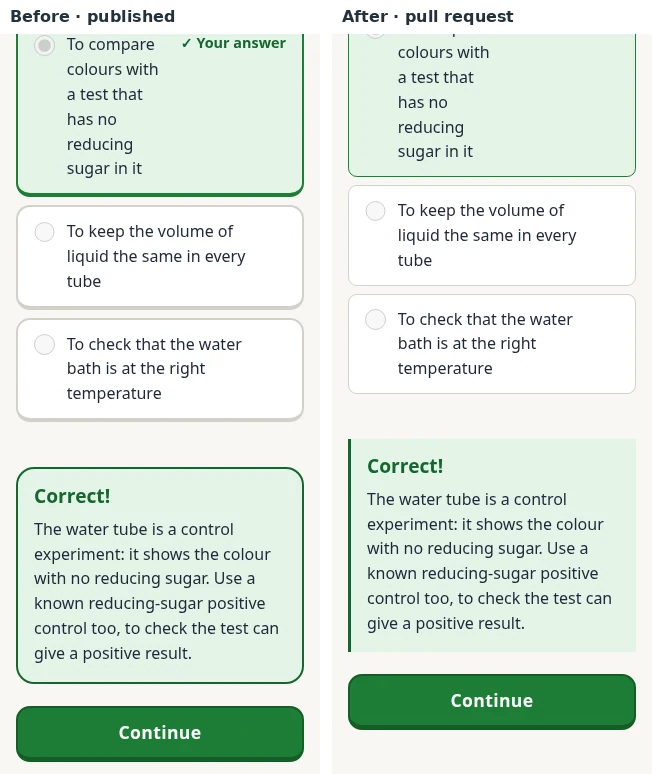
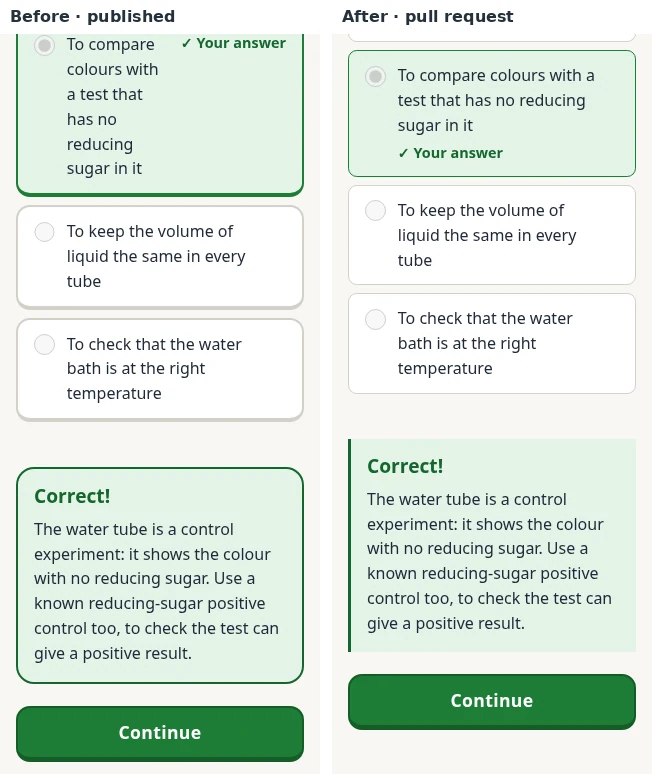
Keep marked GCSE choices readable on phones

Changed region(s): [[0.5215, 0.031, 0.9816, 0.2171], [0.6135, 0.4031, 0.8896, 0.4341], [0.5521, 0.093, 0.5828, 0.124]]

diff --git a/public/assets/learning-publication.css b/public/assets/learning-publication.css
@@ -365,6 +365,19 @@ main .kc-visual-art {
   border-radius: 0;
 }
 
+@media (max-width: 30rem) {
+  .course-gcse #qf .opt:has(> .mark:not(:empty)) {
+    display: grid;
+    grid-template-columns: auto minmax(0, 1fr);
+    row-gap: .25rem;
+  }
+
+  .course-gcse #qf .opt > .mark:not(:empty) {
+    grid-column: 2;
+    white-space: normal;
+  }
+}
+
 @media (prefers-color-scheme: dark) {
   .course-alevel {
     --course-model: #9bbad5;
